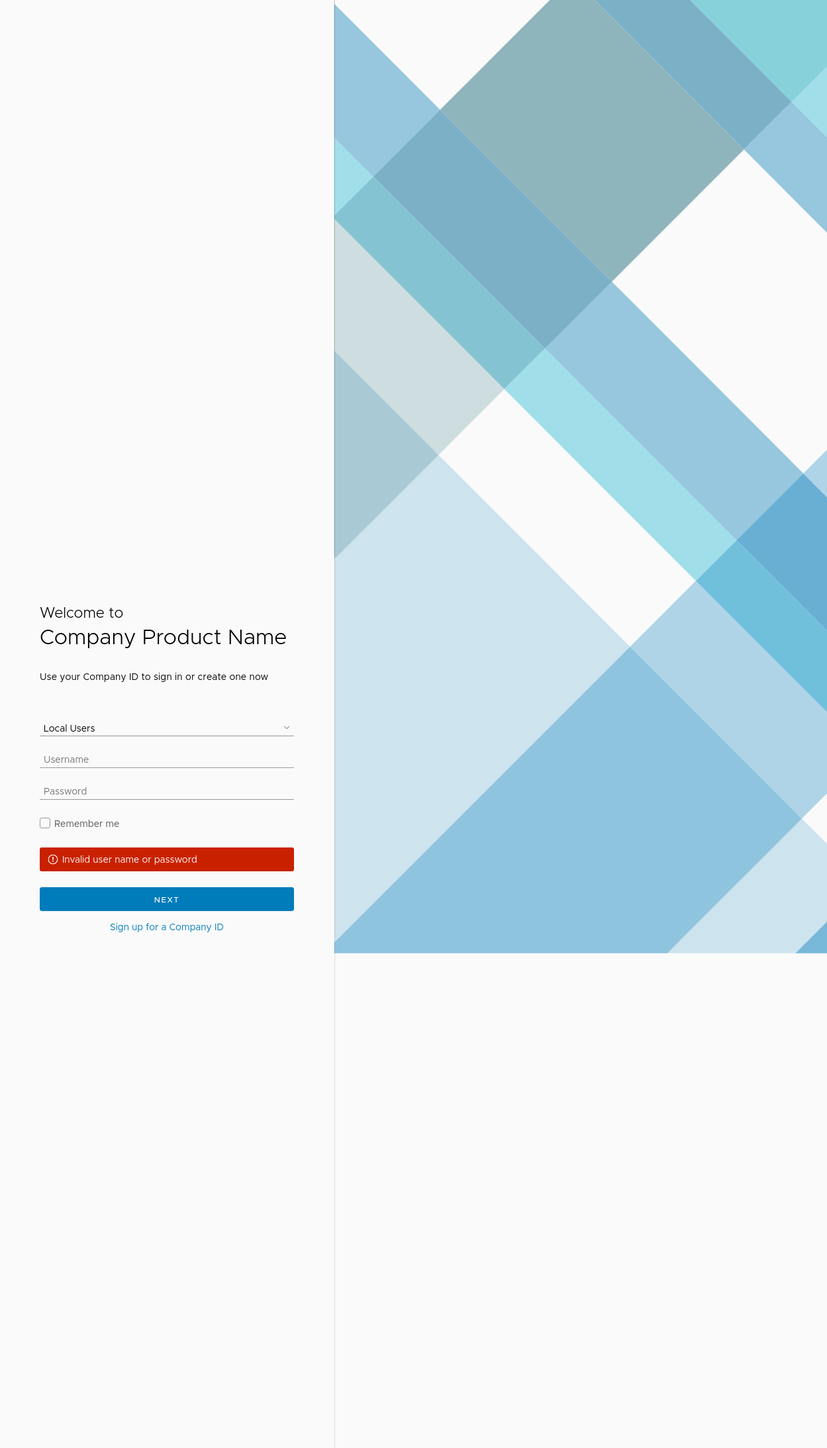
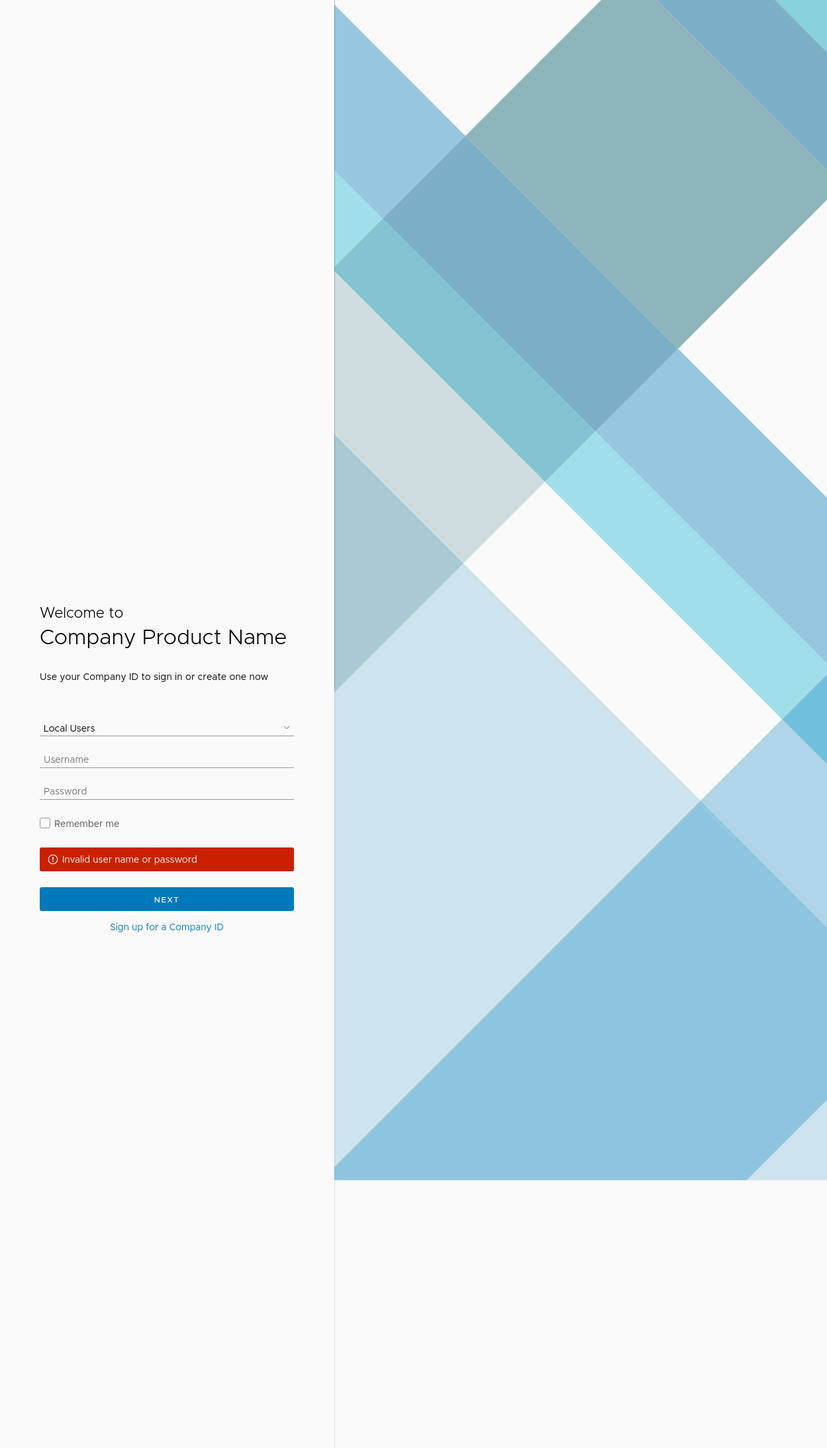
[UI] fix(login): Fixes login background svg (#2680)

Changed region(s): [[0.4059, 0.0, 1.0, 0.8395]]

diff --git a/src/clr-angular/layout/_variables.login.scss b/src/clr-angular/layout/_variables.login.scss
@@ -8,4 +8,4 @@
 $clr-login-background-color: $clr-global-app-background;
 $clr-login-width: 21rem !default;
 $clr-login-icon-size: $clr-icon-dimension-sm !default;
-$clr-login-background: '%3Csvg%20xmlns%3D%22http%3A%2F%2Fwww.w3.org%2F2000%2Fsvg%22%20viewBox%3D%220%200%20100%25%20100%25%22%20preserveAspectRatio%3D%22xMinYMin%20meet%22%3E%0A%20%20%20%20%3Cdesc%3ELogin%20Background%3C%2Fdesc%3E%0A%20%20%20%20%3Cg%20stroke%3D%22none%22%20stroke-width%3D%221%22%20fill%3D%22none%22%20fill-rule%3D%22evenodd%22%20transform%3D%22translate(0.000000%2C%20-4.000000)%22%3E%0A%20%20%20%20%20%20%20%20%3Cg%3E%0A%20%20%20%20%20%20%20%20%20%20%20%20%3Cg%3E%0A%20%20%20%20%20%20%20%20%20%20%20%20%20%20%20%20%3Crect%20fill%3D%22%23FAFAFA%22%20x%3D%220%22%20y%3D%224%22%20width%3D%222055.55%22%20height%3D%221440%22%3E%3C%2Frect%3E%0A%20%20%20%20%20%20%20%20%20%20%20%20%20%20%20%20%3Cpolygon%20fill%3D%22%23007CBB%22%20opacity%3D%220.4%22%20style%3D%22mix-blend-mode%3A%20multiply%3B%22%20points%3D%221108.43%201443.63%201109.08%201443.63%20443.44%20777.74%22%3E%3C%2Fpolygon%3E%0A%20%20%20%20%20%20%20%20%20%20%20%20%20%20%20%20%3Cpolygon%20fill%3D%22%2393D8CA%22%20opacity%3D%220.6%22%20style%3D%22mix-blend-mode%3A%20overlay%3B%22%20points%3D%220.79%20334.92%20443.44%20777.74%200.79%20334.49%22%3E%3C%2Fpolygon%3E%0A%20%20%20%20%20%20%20%20%20%20%20%20%20%20%20%20%3Cpolygon%20fill%3D%22%23A0DEEA%22%20points%3D%220.79%20211.88%200.79%20329.6%2059.62%20270.77%22%3E%3C%2Fpolygon%3E%0A%20%20%20%20%20%20%20%20%20%20%20%20%20%20%20%20%3Cpolygon%20fill%3D%22%2396C7DF%22%20points%3D%22160.65%20169.74%200.79%209.73%200.79%20211.88%2090.27%20301.46%2059.62%20270.77%22%3E%3C%2Fpolygon%3E%0A%20%20%20%20%20%20%20%20%20%20%20%20%20%20%20%20%3Cpolygon%20fill%3D%22%23CDE3EE%22%20points%3D%22503.77%201443.63%20697.47%201443.63%20803.74%201337.36%20706.93%201240.43%22%3E%3C%2Fpolygon%3E%0A%20%20%20%20%20%20%20%20%20%20%20%20%20%20%20%20%3Cpolygon%20fill%3D%22%23CDE3EE%22%20points%3D%22158.33%20691.15%200.79%20848.72%200.79%201427.43%20447.52%20980.7%22%3E%3C%2Fpolygon%3E%0A%20%20%20%20%20%20%20%20%20%20%20%20%20%20%20%20%3Cpolygon%20fill%3D%22%23CEDDE0%22%20points%3D%22257.71%20591.75%200.79%20334.49%200.79%20533.42%20158.33%20691.15%22%3E%3C%2Fpolygon%3E%0A%20%20%20%20%20%20%20%20%20%20%20%20%20%20%20%20%3Cpolygon%20fill%3D%22%23A9C9D5%22%20points%3D%220.79%20533.42%200.79%20848.72%20158.33%20691.15%22%3E%3C%2Fpolygon%3E%0A%20%20%20%20%20%20%20%20%20%20%20%20%20%20%20%20%3Cpolygon%20fill%3D%22%23AFD4E7%22%20points%3D%22806.46%201140.89%20546.94%20881.28%20447.52%20980.7%20706.93%201240.43%22%3E%3C%2Fpolygon%3E%0A%20%20%20%20%20%20%20%20%20%20%20%20%20%20%20%20%3Cpolygon%20fill%3D%22%238FC4DF%22%20points%3D%22447.52%20980.7%200.79%201427.43%200.79%201443.63%20503.77%201443.63%20706.93%201240.43%22%3E%3C%2Fpolygon%3E%0A%20%20%20%20%20%20%20%20%20%20%20%20%20%20%20%20%3Cpolygon%20fill%3D%22%2370C0DC%22%20points%3D%22608.23%20819.99%20546.94%20881.28%20806.46%201140.89%20867.64%201079.7%22%3E%3C%2Fpolygon%3E%0A%20%20%20%20%20%20%20%20%20%20%20%20%20%20%20%20%3Cpolygon%20fill%3D%22%2396C7DF%22%20points%3D%22420.05%20429.39%20319.01%20530.45%20608.23%20819.99%20709.3%20718.91%22%3E%3C%2Fpolygon%3E%0A%20%20%20%20%20%20%20%20%20%20%20%20%20%20%20%20%3Cpolygon%20fill%3D%22%2369AFD4%22%20points%3D%22709.3%20718.91%20608.23%20819.99%20867.64%201079.7%20968.74%20978.6%22%3E%3C%2Fpolygon%3E%0A%20%20%20%20%20%20%20%20%20%20%20%20%20%20%20%20%3Cpolygon%20fill%3D%22%238EB5BC%22%20points%3D%22619.59%20229.82%20393.42%203.12%20327.27%203.12%20160.65%20169.74%20420.05%20429.39%22%3E%3C%2Fpolygon%3E%0A%20%20%20%20%20%20%20%20%20%20%20%20%20%20%20%20%3Cpolygon%20fill%3D%22%238EB5BC%22%20points%3D%22319.01%20530.45%20319.01%20530.45%2090.27%20301.46%22%3E%3C%2Fpolygon%3E%0A%20%20%20%20%20%20%20%20%20%20%20%20%20%20%20%20%3Cpolygon%20fill%3D%22%237CB0C7%22%20points%3D%22160.65%20169.74%2059.62%20270.77%2090.27%20301.46%20319.01%20530.45%20420.05%20429.39%22%3E%3C%2Fpolygon%3E%0A%20%20%20%20%20%20%20%20%20%20%20%20%20%20%20%20%3Cpolygon%20fill%3D%22%2384C4D2%22%20points%3D%2259.62%20270.77%200.79%20329.6%200.79%20334.49%20257.71%20591.75%20319.01%20530.45%22%3E%3C%2Fpolygon%3E%0A%20%20%20%20%20%20%20%20%20%20%20%20%20%20%20%20%3Cpolygon%20fill%3D%22%237CB0C7%22%20points%3D%22537.55%203.12%20393.42%203.12%20619.59%20229.82%20691.74%20157.66%22%3E%3C%2Fpolygon%3E%0A%20%20%20%20%20%20%20%20%20%20%20%20%20%20%20%20%3Cpolygon%20fill%3D%22%2387D1DB%22%20points%3D%22846.25%203.12%20537.55%203.12%20691.74%20157.66%22%3E%3C%2Fpolygon%3E%0A%20%20%20%20%20%20%20%20%20%20%20%20%20%20%20%20%3Cpolygon%20fill%3D%22%23CDE3EE%22%20points%3D%22909.87%201443.63%20850.19%201383.87%20790.43%201443.63%22%3E%3C%2Fpolygon%3E%0A%20%20%20%20%20%20%20%20%20%20%20%20%20%20%20%20%3Cpolygon%20fill%3D%22%23A0DEEA%22%20points%3D%22319.01%20530.45%20257.71%20591.75%20443.44%20777.74%20546.94%20881.28%20608.23%20819.99%20867.64%201079.7%20867.64%201079.7%22%3E%3C%2Fpolygon%3E%0A%20%20%20%20%20%20%20%20%20%20%20%20%20%20%20%20%3Cpolygon%20fill%3D%22%23A0DEEA%22%20points%3D%22867.64%201079.7%20806.46%201140.89%20903.31%201237.78%20964.46%201176.63%22%3E%3C%2Fpolygon%3E%0A%20%20%20%20%20%20%20%20%20%20%20%20%20%20%20%20%3Cpolygon%20fill%3D%22%2396C7DF%22%20points%3D%221065.57%201075.52%20968.74%20978.6%20867.64%201079.7%20964.46%201176.63%22%3E%3C%2Fpolygon%3E%0A%20%20%20%20%20%20%20%20%20%20%20%20%20%20%20%20%3Cpolygon%20fill%3D%22%2396C7DF%22%20points%3D%22964.46%201176.63%20867.64%201079.7%20867.64%201079.7%20964.46%201176.63%22%3E%3C%2Fpolygon%3E%0A%20%20%20%20%20%20%20%20%20%20%20%20%20%20%20%20%3Cpolygon%20fill%3D%22%2396C7DF%22%20points%3D%221010.92%201223.13%201231.16%201443.63%201010.92%201223.13%22%3E%3C%2Fpolygon%3E%0A%20%20%20%20%20%20%20%20%20%20%20%20%20%20%20%20%3Cpolygon%20fill%3D%22%2396C7DF%22%20points%3D%221240.08%20707.22%201167.9%20779.4%201264.68%20876.4%201336.87%20804.22%201240.08%20707.21%22%3E%3C%2Fpolygon%3E%0A%20%20%20%20%20%20%20%20%20%20%20%20%20%20%20%20%3Cpolygon%20fill%3D%22%2396C7DF%22%20points%3D%22980.83%20447.39%20691.74%20157.66%20619.59%20229.82%20908.66%20519.56%20980.83%20447.39%22%3E%3C%2Fpolygon%3E%0A%20%20%20%20%20%20%20%20%20%20%20%20%20%20%20%20%3Cpolygon%20fill%3D%22%23AFD4E7%22%20points%3D%22709.3%20718.91%20968.74%20978.6%201167.91%20779.4%20908.66%20519.55%22%3E%3C%2Fpolygon%3E%0A%20%20%20%20%20%20%20%20%20%20%20%20%20%20%20%20%3Cpolygon%20fill%3D%22%2369AFD4%22%20points%3D%22980.83%20447.39%20908.66%20519.55%201167.91%20779.4%201240.08%20707.21%22%3E%3C%2Fpolygon%3E%0A%20%20%20%20%20%20%20%20%20%20%20%20%20%20%20%20%3Cpolygon%20fill%3D%22%23A0DEEA%22%20points%3D%221034.59%203.12%20846.25%203.12%20691.74%20157.66%20980.83%20447.39%201229.75%20198.47%22%3E%3C%2Fpolygon%3E%0A%20%20%20%20%20%20%20%20%20%20%20%20%20%20%20%20%3Cpolygon%20fill%3D%22%23A0DEEA%22%20points%3D%221240.08%20707.21%201336.87%20804.22%201586.01%20555.08%201489.14%20458.12%22%3E%3C%2Fpolygon%3E%0A%20%20%20%20%20%20%20%20%20%20%20%20%20%20%20%20%3Cpolygon%20fill%3D%22%2370C0DC%22%20points%3D%221229.75%20198.47%20980.83%20447.39%201240.08%20707.21%201489.14%20458.12%22%3E%3C%2Fpolygon%3E%0A%20%20%20%20%20%20%20%20%20%20%20%20%20%20%20%20%3Cpolygon%20fill%3D%22%23B7CED2%22%20points%3D%221292.22%201302.38%201433.32%201443.63%201830.61%201443.63%201491.18%201103.42%22%3E%3C%2Fpolygon%3E%0A%20%20%20%20%20%20%20%20%20%20%20%20%20%20%20%20%3Cpolygon%20fill%3D%22%23A0DEEA%22%20points%3D%221010.92%201223.13%20949.78%201284.27%201109.08%201443.63%201150.98%201443.63%201191.09%201403.51%22%3E%3C%2Fpolygon%3E%0A%20%20%20%20%20%20%20%20%20%20%20%20%20%20%20%20%3Cpolygon%20fill%3D%22%2375B8C5%22%20points%3D%221150.98%201443.63%201231.16%201443.63%201191.09%201403.51%22%3E%3C%2Fpolygon%3E%0A%20%20%20%20%20%20%20%20%20%20%20%20%20%20%20%20%3Cpolygon%20fill%3D%22%2396C7DF%22%20points%3D%221292.22%201302.38%201112.03%201122.02%201010.92%201223.13%201191.09%201403.51%22%3E%3C%2Fpolygon%3E%0A%20%20%20%20%20%20%20%20%20%20%20%20%20%20%20%20%3Cpolygon%20fill%3D%22%236EA4BC%22%20points%3D%221191.09%201403.51%201231.16%201443.63%201433.32%201443.63%201292.22%201302.38%22%3E%3C%2Fpolygon%3E%0A%20%20%20%20%20%20%20%20%20%20%20%20%20%20%20%20%3Cpolygon%20fill%3D%22%23007CBB%22%20opacity%3D%220.4%22%20style%3D%22mix-blend-mode%3A%20multiply%3B%22%20points%3D%221383.3%20850.75%201311.12%20922.94%201491.18%201103.42%201563.37%201031.23%22%3E%3C%2Fpolygon%3E%0A%20%20%20%20%20%20%20%20%20%20%20%20%20%20%20%20%3Cpolygon%20fill%3D%22%23B7CED2%22%20points%3D%221491.18%201103.42%201830.61%201443.63%201974.86%201443.63%201563.37%201031.23%22%3E%3C%2Fpolygon%3E%0A%20%20%20%20%20%20%20%20%20%20%20%20%20%20%20%20%3Cpolygon%20fill%3D%22%236EA4BC%22%20points%3D%221491.18%201103.42%201830.61%201443.63%201974.86%201443.63%201563.37%201031.23%22%3E%3C%2Fpolygon%3E%0A%20%20%20%20%20%20%20%20%20%20%20%20%20%20%20%20%3Cpolygon%20fill%3D%22%23A0DEEA%22%20points%3D%221812.65%20781.95%201632.46%20601.59%201383.3%20850.75%201563.37%201031.23%22%3E%3C%2Fpolygon%3E%0A%20%20%20%20%20%20%20%20%20%20%20%20%20%20%20%20%3Cpolygon%20fill%3D%22%23B7CED2%22%20points%3D%221563.37%201031.23%201974.86%201443.63%202054.45%201443.63%202054.45%201023.99%201812.65%20781.95%22%3E%3C%2Fpolygon%3E%0A%20%20%20%20%20%20%20%20%20%20%20%20%20%20%20%20%3Cpolygon%20fill%3D%22%2378CAD4%22%20points%3D%221563.37%201031.23%201974.86%201443.63%202054.45%201443.63%202054.45%201023.99%201812.65%20781.95%22%3E%3C%2Fpolygon%3E%0A%20%20%20%20%20%20%20%20%20%20%20%20%20%20%20%20%3Cpolygon%20fill%3D%22%2391C5E0%22%20points%3D%22803.74%201337.36%20850.19%201383.87%20949.78%201284.27%20903.31%201237.78%22%3E%3C%2Fpolygon%3E%0A%20%20%20%20%20%20%20%20%20%20%20%20%20%20%20%20%3Cpolygon%20fill%3D%22%2391C5E0%22%20points%3D%221065.57%201075.52%201112.03%201122.02%201311.12%20922.94%201264.69%20876.4%22%3E%3C%2Fpolygon%3E%0A%20%20%20%20%20%20%20%20%20%20%20%20%20%20%20%20%3Cpolygon%20fill%3D%22%2377B8D9%22%20points%3D%22697.47%201443.63%20790.43%201443.63%20850.19%201383.87%20803.74%201337.36%22%3E%3C%2Fpolygon%3E%0A%20%20%20%20%20%20%20%20%20%20%20%20%20%20%20%20%3Cpolygon%20fill%3D%22%23A0DEEA%22%20points%3D%22964.46%201176.63%20903.31%201237.78%20949.78%201284.27%201010.92%201223.13%22%3E%3C%2Fpolygon%3E%0A%20%20%20%20%20%20%20%20%20%20%20%20%20%20%20%20%3Cpolygon%20fill%3D%22%235DB5D6%22%20points%3D%22964.46%201176.63%20903.31%201237.78%20949.78%201284.27%201010.92%201223.13%22%3E%3C%2Fpolygon%3E%0A%20%20%20%20%20%20%20%20%20%20%20%20%20%20%20%20%3Crect%20fill%3D%22%2396C7DF%22%20transform%3D%22translate(1038.247297%2C%201149.275429)%20rotate(-44.970000)%20translate(-1038.247297%2C%20-1149.275429)%20%22%20x%3D%22966.752297%22%20y%3D%221116.41043%22%20width%3D%22142.99%22%20height%3D%2265.73%22%3E%3C%2Frect%3E%0A%20%20%20%20%20%20%20%20%20%20%20%20%20%20%20%20%3Crect%20fill%3D%22%2357A8D0%22%20transform%3D%22translate(1038.247297%2C%201149.275429)%20rotate(-44.970000)%20translate(-1038.247297%2C%20-1149.275429)%20%22%20x%3D%22966.752297%22%20y%3D%221116.41043%22%20width%3D%22142.99%22%20height%3D%2265.73%22%3E%3C%2Frect%3E%0A%20%20%20%20%20%20%20%20%20%20%20%20%20%20%20%20%3Cpolygon%20fill%3D%22%2396C7DF%22%20points%3D%221010.92%201223.13%201010.92%201223.13%20964.46%201176.63%20964.46%201176.63%22%3E%3C%2Fpolygon%3E%0A%20%20%20%20%20%20%20%20%20%20%20%20%20%20%20%20%3Cpolygon%20fill%3D%22%23000000%22%20opacity%3D%220.42%22%20points%3D%221010.92%201223.13%201010.92%201223.13%20964.46%201176.63%20964.46%201176.63%22%3E%3C%2Fpolygon%3E%0A%20%20%20%20%20%20%20%20%20%20%20%20%20%20%20%20%3Cpolygon%20fill%3D%22%23007CBB%22%20opacity%3D%220.4%22%20style%3D%22mix-blend-mode%3A%20multiply%3B%22%20points%3D%221336.87%20804.22%201264.69%20876.4%201311.12%20922.94%201383.3%20850.75%22%3E%3C%2Fpolygon%3E%0A%20%20%20%20%20%20%20%20%20%20%20%20%20%20%20%20%3Cpolygon%20fill%3D%22%2357A8D0%22%20points%3D%221336.87%20804.22%201264.69%20876.4%201311.12%20922.94%201383.3%20850.75%22%3E%3C%2Fpolygon%3E%0A%20%20%20%20%20%20%20%20%20%20%20%20%20%20%20%20%3Cpolygon%20fill%3D%22%2393D8CA%22%20opacity%3D%220.6%22%20style%3D%22mix-blend-mode%3A%20overlay%3B%22%20points%3D%221336.87%20804.22%201383.3%20850.75%201632.46%20601.59%201586.01%20555.08%22%3E%3C%2Fpolygon%3E%0A%20%20%20%20%20%20%20%20%20%20%20%20%20%20%20%20%3Cpolygon%20fill%3D%22%235DB5D6%22%20points%3D%221336.87%20804.22%201383.3%20850.75%201632.46%20601.59%201586.01%20555.08%22%3E%3C%2Fpolygon%3E%0A%20%20%20%20%20%20%20%20%20%20%20%20%20%20%20%20%3Cpolygon%20fill%3D%22%23AFD3E6%22%20points%3D%222056%200.12%201645.49%200.12%201648.49%203.12%201944.07%203.12%201796.22%20150.99%201893.12%20247.97%202054.45%2086.64%202054.45%20179.6%201939.58%20294.47%202056%20411%22%3E%3C%2Fpolygon%3E%0A%20%20%20%20%20%20%20%20%20%20%20%20%20%20%20%20%3Cpolygon%20fill%3D%22%237AB9D9%22%20points%3D%221648.49%203.12%201796.22%20150.99%201944.07%203.12%22%3E%3C%2Fpolygon%3E%0A%20%20%20%20%20%20%20%20%20%20%20%20%20%20%20%20%3Cpolygon%20fill%3D%22%2366AED4%22%20points%3D%222054.45%2086.64%201893.12%20247.97%201939.58%20294.47%202054.45%20179.6%22%3E%3C%2Fpolygon%3E%0A%20%20%20%20%20%20%20%20%20%20%20%20%20%20%20%20%3Cpolygon%20fill%3D%22%23B7CED2%22%20points%3D%221884.82%20709.78%202054.45%20879.57%202054.45%20540.15%22%3E%3C%2Fpolygon%3E%0A%20%20%20%20%20%20%20%20%20%20%20%20%20%20%20%20%3Cpolygon%20fill%3D%22%23AFD4E7%22%20points%3D%221489.14%20458.12%201489.14%20458.12%201371.13%20339.99%22%3E%3C%2Fpolygon%3E%0A%20%20%20%20%20%20%20%20%20%20%20%20%20%20%20%20%3Cpolygon%20fill%3D%22%23AFD4E7%22%20points%3D%221796.22%20150.99%201648.49%203.12%201425.1%203.12%201301.91%20126.31%201561.3%20385.95%22%3E%3C%2Fpolygon%3E%0A%20%20%20%20%20%20%20%20%20%20%20%20%20%20%20%20%3Crect%20fill%3D%22%2391C5E0%22%20transform%3D%22translate(1798.954066%2C%20388.798781)%20rotate(-44.970000)%20translate(-1798.954066%2C%20-388.798781)%20%22%20x%3D%221632.82407%22%20y%3D%22355.933781%22%20width%3D%22332.26%22%20height%3D%2265.73%22%3E%3C%2Frect%3E%0A%20%20%20%20%20%20%20%20%20%20%20%20%20%20%20%20%3Cpolygon%20fill%3D%22%2391C5E0%22%20points%3D%221586.01%20555.08%201632.46%20601.59%201632.46%20601.59%201586.01%20555.08%22%3E%3C%2Fpolygon%3E%0A%20%20%20%20%20%20%20%20%20%20%20%20%20%20%20%20%3Crect%20fill%3D%22%23B3EAEE%22%20transform%3D%22translate(1573.711577%2C%20470.620263)%20rotate(-45.000000)%20translate(-1573.711577%2C%20-470.620263)%20%22%20x%3D%221522.68158%22%20y%3D%22402.085263%22%20width%3D%22102.06%22%20height%3D%22137.07%22%3E%3C%2Frect%3E%0A%20%20%20%20%20%20%20%20%20%20%20%20%20%20%20%20%3Crect%20fill%3D%22%23B3EAEE%22%20transform%3D%22translate(1758.676758%2C%20655.767120)%20rotate(-44.970000)%20translate(-1758.676758%2C%20-655.767120)%20%22%20x%3D%221707.64676%22%20y%3D%22528.29212%22%20width%3D%22102.06%22%20height%3D%22254.95%22%3E%3C%2Frect%3E%0A%20%20%20%20%20%20%20%20%20%20%20%20%20%20%20%20%3Cpolygon%20fill%3D%22%23B3EAEE%22%20points%3D%221301.91%20126.31%201178.84%203.12%201034.59%203.12%201229.75%20198.47%22%3E%3C%2Fpolygon%3E%0A%20%20%20%20%20%20%20%20%20%20%20%20%20%20%20%20%3Cpolygon%20fill%3D%22%2383C0C8%22%20points%3D%221812.65%20781.95%202054.45%201023.99%202054.45%20879.57%201884.82%20709.78%22%3E%3C%2Fpolygon%3E%0A%20%20%20%20%20%20%20%20%20%20%20%20%20%20%20%20%3Crect%20fill%3D%22%237DC6DC%22%20transform%3D%22translate(1395.516901%2C%20292.206519)%20rotate(-45.000000)%20translate(-1395.516901%2C%20-292.206519)%20%22%20x%3D%221344.4919%22%20y%3D%22108.701519%22%20width%3D%22102.05%22%20height%3D%22367.01%22%3E%3C%2Frect%3E%0A%20%20%20%20%20%20%20%20%20%20%20%20%20%20%20%20%3Crect%20fill%3D%22%2368B8D5%22%20transform%3D%22translate(1645.313619%2C%20542.249760)%20rotate(-45.000000)%20translate(-1645.313619%2C%20-542.249760)%20%22%20x%3D%221594.28362%22%20y%3D%22509.38476%22%20width%3D%22102.06%22%20height%3D%2265.73%22%3E%3C%2Frect%3E%0A%20%20%20%20%20%20%20%20%20%20%20%20%3C%2Fg%3E%0A%20%20%20%20%20%20%20%20%20%20%20%20%3Cg%20transform%3D%22translate(0.000000%2C%203.000000)%22%20stroke%3D%22%23000000%22%20opacity%3D%220.15%22%3E%0A%20%20%20%20%20%20%20%20%20%20%20%20%20%20%20%20%3Cpath%20d%3D%22M0.95%2C0.12%20L0.95%2C840.12%22%20id%3D%22Shape%22%3E%3C%2Fpath%3E%0A%20%20%20%20%20%20%20%20%20%20%20%20%3C%2Fg%3E%0A%20%20%20%20%20%20%20%20%3C%2Fg%3E%0A%20%20%20%20%3C%2Fg%3E%0A%3C%2Fsvg%3E';
+$clr-login-background: '%3C%3Fxml%20version%3D%221.0%22%20encoding%3D%22utf-8%22%3F%3E%0D%0A%3C%21DOCTYPE%20svg%20PUBLIC%20%22-%2F%2FW3C%2F%2FDTD%20SVG%201.1%2F%2FEN%22%20%22http%3A%2F%2Fwww.w3.org%2FGraphics%2FSVG%2F1.1%2FDTD%2Fsvg11.dtd%22%3E%0D%0A%3Csvg%0D%0A%20%20%20%20%20version%3D%221.1%22%0D%0A%20%20%20%20%20id%3D%22no-aspect-ratio%22%0D%0A%20%20%20%20%20xmlns%3D%22http%3A%2F%2Fwww.w3.org%2F2000%2Fsvg%22%0D%0A%20%20%20%20%20xmlns%3Axlink%3D%22http%3A%2F%2Fwww.w3.org%2F1999%2Fxlink%22%0D%0A%20%20%20%20%20x%3D%220px%22%0D%0A%20%20%20%20%20y%3D%220px%22%0D%0A%20%20%20%20%20height%3D%222055.55px%22%0D%0A%20%20%20%20%20width%3D%221440px%22%0D%0A%20%20%20%20%20viewBox%3D%220%200%202055.55%201440%22%0D%0A%20%20%20%20%20preserveAspectRatio%3D%22xMinYMin%20slice%22%3E%0D%0A%20%20%20%20%20%20%20%20%20%3Cdesc%3ELogin%20Image%3C%2Fdesc%3E%0D%0A%20%20%20%20%20%20%20%20%20%20%20%20%20%3Cg%20stroke%3D%22none%22%20stroke-width%3D%221%22%20fill%3D%22none%22%20fill-rule%3D%22evenodd%22%20transform%3D%22translate%280.000000%2C%20-4.000000%29%22%3E%0D%0A%20%20%20%20%20%20%20%20%3Cg%3E%0D%0A%20%20%20%20%20%20%20%20%20%20%20%20%3Cg%3E%0D%0A%20%20%20%20%20%20%20%20%20%20%20%20%20%20%20%20%3Crect%20fill%3D%22%23FAFAFA%22%20x%3D%220%22%20y%3D%224%22%3E%3C%2Frect%3E%0D%0A%20%20%20%20%20%20%20%20%20%20%20%20%20%20%20%20%3Cpolygon%20fill%3D%22%23007CBB%22%20opacity%3D%220.4%22%20style%3D%22mix-blend-mode%3A%20multiply%3B%22%20points%3D%221108.43%201443.63%201109.08%201443.63%20443.44%20777.74%22%3E%3C%2Fpolygon%3E%0D%0A%20%20%20%20%20%20%20%20%20%20%20%20%20%20%20%20%3Cpolygon%20fill%3D%22%2393D8CA%22%20opacity%3D%220.6%22%20style%3D%22mix-blend-mode%3A%20overlay%3B%22%20points%3D%220.79%20334.92%20443.44%20777.74%200.79%20334.49%22%3E%3C%2Fpolygon%3E%0D%0A%20%20%20%20%20%20%20%20%20%20%20%20%20%20%20%20%3Cpolygon%20fill%3D%22%23A0DEEA%22%20points%3D%220.79%20211.88%200.79%20329.6%2059.62%20270.77%22%3E%3C%2Fpolygon%3E%0D%0A%20%20%20%20%20%20%20%20%20%20%20%20%20%20%20%20%3Cpolygon%20fill%3D%22%2396C7DF%22%20points%3D%22160.65%20169.74%200.79%209.73%200.79%20211.88%2090.27%20301.46%2059.62%20270.77%22%3E%3C%2Fpolygon%3E%0D%0A%20%20%20%20%20%20%20%20%20%20%20%20%20%20%20%20%3Cpolygon%20fill%3D%22%23CDE3EE%22%20points%3D%22503.77%201443.63%20697.47%201443.63%20803.74%201337.36%20706.93%201240.43%22%3E%3C%2Fpolygon%3E%0D%0A%20%20%20%20%20%20%20%20%20%20%20%20%20%20%20%20%3Cpolygon%20fill%3D%22%23CDE3EE%22%20points%3D%22158.33%20691.15%200.79%20848.72%200.79%201427.43%20447.52%20980.7%22%3E%3C%2Fpolygon%3E%0D%0A%20%20%20%20%20%20%20%20%20%20%20%20%20%20%20%20%3Cpolygon%20fill%3D%22%23CEDDE0%22%20points%3D%22257.71%20591.75%200.79%20334.49%200.79%20533.42%20158.33%20691.15%22%3E%3C%2Fpolygon%3E%0D%0A%20%20%20%20%20%20%20%20%20%20%20%20%20%20%20%20%3Cpolygon%20fill%3D%22%23A9C9D5%22%20points%3D%220.79%20533.42%200.79%20848.72%20158.33%20691.15%22%3E%3C%2Fpolygon%3E%0D%0A%20%20%20%20%20%20%20%20%20%20%20%20%20%20%20%20%3Cpolygon%20fill%3D%22%23AFD4E7%22%20points%3D%22806.46%201140.89%20546.94%20881.28%20447.52%20980.7%20706.93%201240.43%22%3E%3C%2Fpolygon%3E%0D%0A%20%20%20%20%20%20%20%20%20%20%20%20%20%20%20%20%3Cpolygon%20fill%3D%22%238FC4DF%22%20points%3D%22447.52%20980.7%200.79%201427.43%200.79%201443.63%20503.77%201443.63%20706.93%201240.43%22%3E%3C%2Fpolygon%3E%0D%0A%20%20%20%20%20%20%20%20%20%20%20%20%20%20%20%20%3Cpolygon%20fill%3D%22%2370C0DC%22%20points%3D%22608.23%20819.99%20546.94%20881.28%20806.46%201140.89%20867.64%201079.7%22%3E%3C%2Fpolygon%3E%0D%0A%20%20%20%20%20%20%20%20%20%20%20%20%20%20%20%20%3Cpolygon%20fill%3D%22%2396C7DF%22%20points%3D%22420.05%20429.39%20319.01%20530.45%20608.23%20819.99%20709.3%20718.91%22%3E%3C%2Fpolygon%3E%0D%0A%20%20%20%20%20%20%20%20%20%20%20%20%20%20%20%20%3Cpolygon%20fill%3D%22%2369AFD4%22%20points%3D%22709.3%20718.91%20608.23%20819.99%20867.64%201079.7%20968.74%20978.6%22%3E%3C%2Fpolygon%3E%0D%0A%20%20%20%20%20%20%20%20%20%20%20%20%20%20%20%20%3Cpolygon%20fill%3D%22%238EB5BC%22%20points%3D%22619.59%20229.82%20393.42%203.12%20327.27%203.12%20160.65%20169.74%20420.05%20429.39%22%3E%3C%2Fpolygon%3E%0D%0A%20%20%20%20%20%20%20%20%20%20%20%20%20%20%20%20%3Cpolygon%20fill%3D%22%238EB5BC%22%20points%3D%22319.01%20530.45%20319.01%20530.45%2090.27%20301.46%22%3E%3C%2Fpolygon%3E%0D%0A%20%20%20%20%20%20%20%20%20%20%20%20%20%20%20%20%3Cpolygon%20fill%3D%22%237CB0C7%22%20points%3D%22160.65%20169.74%2059.62%20270.77%2090.27%20301.46%20319.01%20530.45%20420.05%20429.39%22%3E%3C%2Fpolygon%3E%0D%0A%20%20%20%20%20%20%20%20%20%20%20%20%20%20%20%20%3Cpolygon%20fill%3D%22%2384C4D2%22%20points%3D%2259.62%20270.77%200.79%20329.6%200.79%20334.49%20257.71%20591.75%20319.01%20530.45%22%3E%3C%2Fpolygon%3E%0D%0A%20%20%20%20%20%20%20%20%20%20%20%20%20%20%20%20%3Cpolygon%20fill%3D%22%237CB0C7%22%20points%3D%22537.55%203.12%20393.42%203.12%20619.59%20229.82%20691.74%20157.66%22%3E%3C%2Fpolygon%3E%0D%0A%20%20%20%20%20%20%20%20%20%20%20%20%20%20%20%20%3Cpolygon%20fill%3D%22%2387D1DB%22%20points%3D%22846.25%203.12%20537.55%203.12%20691.74%20157.66%22%3E%3C%2Fpolygon%3E%0D%0A%20%20%20%20%20%20%20%20%20%20%20%20%20%20%20%20%3Cpolygon%20fill%3D%22%23CDE3EE%22%20points%3D%22909.87%201443.63%20850.19%201383.87%20790.43%201443.63%22%3E%3C%2Fpolygon%3E%0D%0A%20%20%20%20%20%20%20%20%20%20%20%20%20%20%20%20%3Cpolygon%20fill%3D%22%23A0DEEA%22%20points%3D%22319.01%20530.45%20257.71%20591.75%20443.44%20777.74%20546.94%20881.28%20608.23%20819.99%20867.64%201079.7%20867.64%201079.7%22%3E%3C%2Fpolygon%3E%0D%0A%20%20%20%20%20%20%20%20%20%20%20%20%20%20%20%20%3Cpolygon%20fill%3D%22%23A0DEEA%22%20points%3D%22867.64%201079.7%20806.46%201140.89%20903.31%201237.78%20964.46%201176.63%22%3E%3C%2Fpolygon%3E%0D%0A%20%20%20%20%20%20%20%20%20%20%20%20%20%20%20%20%3Cpolygon%20fill%3D%22%2396C7DF%22%20points%3D%221065.57%201075.52%20968.74%20978.6%20867.64%201079.7%20964.46%201176.63%22%3E%3C%2Fpolygon%3E%0D%0A%20%20%20%20%20%20%20%20%20%20%20%20%20%20%20%20%3Cpolygon%20fill%3D%22%2396C7DF%22%20points%3D%22964.46%201176.63%20867.64%201079.7%20867.64%201079.7%20964.46%201176.63%22%3E%3C%2Fpolygon%3E%0D%0A%20%20%20%20%20%20%20%20%20%20%20%20%20%20%20%20%3Cpolygon%20fill%3D%22%2396C7DF%22%20points%3D%221010.92%201223.13%201231.16%201443.63%201010.92%201223.13%22%3E%3C%2Fpolygon%3E%0D%0A%20%20%20%20%20%20%20%20%20%20%20%20%20%20%20%20%3Cpolygon%20fill%3D%22%2396C7DF%22%20points%3D%221240.08%20707.22%201167.9%20779.4%201264.68%20876.4%201336.87%20804.22%201240.08%20707.21%22%3E%3C%2Fpolygon%3E%0D%0A%20%20%20%20%20%20%20%20%20%20%20%20%20%20%20%20%3Cpolygon%20fill%3D%22%2396C7DF%22%20points%3D%22980.83%20447.39%20691.74%20157.66%20619.59%20229.82%20908.66%20519.56%20980.83%20447.39%22%3E%3C%2Fpolygon%3E%0D%0A%20%20%20%20%20%20%20%20%20%20%20%20%20%20%20%20%3Cpolygon%20fill%3D%22%23AFD4E7%22%20points%3D%22709.3%20718.91%20968.74%20978.6%201167.91%20779.4%20908.66%20519.55%22%3E%3C%2Fpolygon%3E%0D%0A%20%20%20%20%20%20%20%20%20%20%20%20%20%20%20%20%3Cpolygon%20fill%3D%22%2369AFD4%22%20points%3D%22980.83%20447.39%20908.66%20519.55%201167.91%20779.4%201240.08%20707.21%22%3E%3C%2Fpolygon%3E%0D%0A%20%20%20%20%20%20%20%20%20%20%20%20%20%20%20%20%3Cpolygon%20fill%3D%22%23A0DEEA%22%20points%3D%221034.59%203.12%20846.25%203.12%20691.74%20157.66%20980.83%20447.39%201229.75%20198.47%22%3E%3C%2Fpolygon%3E%0D%0A%20%20%20%20%20%20%20%20%20%20%20%20%20%20%20%20%3Cpolygon%20fill%3D%22%23A0DEEA%22%20points%3D%221240.08%20707.21%201336.87%20804.22%201586.01%20555.08%201489.14%20458.12%22%3E%3C%2Fpolygon%3E%0D%0A%20%20%20%20%20%20%20%20%20%20%20%20%20%20%20%20%3Cpolygon%20fill%3D%22%2370C0DC%22%20points%3D%221229.75%20198.47%20980.83%20447.39%201240.08%20707.21%201489.14%20458.12%22%3E%3C%2Fpolygon%3E%0D%0A%20%20%20%20%20%20%20%20%20%20%20%20%20%20%20%20%3Cpolygon%20fill%3D%22%23B7CED2%22%20points%3D%221292.22%201302.38%201433.32%201443.63%201830.61%201443.63%201491.18%201103.42%22%3E%3C%2Fpolygon%3E%0D%0A%20%20%20%20%20%20%20%20%20%20%20%20%20%20%20%20%3Cpolygon%20fill%3D%22%23A0DEEA%22%20points%3D%221010.92%201223.13%20949.78%201284.27%201109.08%201443.63%201150.98%201443.63%201191.09%201403.51%22%3E%3C%2Fpolygon%3E%0D%0A%20%20%20%20%20%20%20%20%20%20%20%20%20%20%20%20%3Cpolygon%20fill%3D%22%2375B8C5%22%20points%3D%221150.98%201443.63%201231.16%201443.63%201191.09%201403.51%22%3E%3C%2Fpolygon%3E%0D%0A%20%20%20%20%20%20%20%20%20%20%20%20%20%20%20%20%3Cpolygon%20fill%3D%22%2396C7DF%22%20points%3D%221292.22%201302.38%201112.03%201122.02%201010.92%201223.13%201191.09%201403.51%22%3E%3C%2Fpolygon%3E%0D%0A%20%20%20%20%20%20%20%20%20%20%20%20%20%20%20%20%3Cpolygon%20fill%3D%22%236EA4BC%22%20points%3D%221191.09%201403.51%201231.16%201443.63%201433.32%201443.63%201292.22%201302.38%22%3E%3C%2Fpolygon%3E%0D%0A%20%20%20%20%20%20%20%20%20%20%20%20%20%20%20%20%3Cpolygon%20fill%3D%22%23007CBB%22%20opacity%3D%220.4%22%20style%3D%22mix-blend-mode%3A%20multiply%3B%22%20points%3D%221383.3%20850.75%201311.12%20922.94%201491.18%201103.42%201563.37%201031.23%22%3E%3C%2Fpolygon%3E%0D%0A%20%20%20%20%20%20%20%20%20%20%20%20%20%20%20%20%3Cpolygon%20fill%3D%22%23B7CED2%22%20points%3D%221491.18%201103.42%201830.61%201443.63%201974.86%201443.63%201563.37%201031.23%22%3E%3C%2Fpolygon%3E%0D%0A%20%20%20%20%20%20%20%20%20%20%20%20%20%20%20%20%3Cpolygon%20fill%3D%22%236EA4BC%22%20points%3D%221491.18%201103.42%201830.61%201443.63%201974.86%201443.63%201563.37%201031.23%22%3E%3C%2Fpolygon%3E%0D%0A%20%20%20%20%20%20%20%20%20%20%20%20%20%20%20%20%3Cpolygon%20fill%3D%22%23A0DEEA%22%20points%3D%221812.65%20781.95%201632.46%20601.59%201383.3%20850.75%201563.37%201031.23%22%3E%3C%2Fpolygon%3E%0D%0A%20%20%20%20%20%20%20%20%20%20%20%20%20%20%20%20%3Cpolygon%20fill%3D%22%23B7CED2%22%20points%3D%221563.37%201031.23%201974.86%201443.63%202054.45%201443.63%202054.45%201023.99%201812.65%20781.95%22%3E%3C%2Fpolygon%3E%0D%0A%20%20%20%20%20%20%20%20%20%20%20%20%20%20%20%20%3Cpolygon%20fill%3D%22%2378CAD4%22%20points%3D%221563.37%201031.23%201974.86%201443.63%202054.45%201443.63%202054.45%201023.99%201812.65%20781.95%22%3E%3C%2Fpolygon%3E%0D%0A%20%20%20%20%20%20%20%20%20%20%20%20%20%20%20%20%3Cpolygon%20fill%3D%22%2391C5E0%22%20points%3D%22803.74%201337.36%20850.19%201383.87%20949.78%201284.27%20903.31%201237.78%22%3E%3C%2Fpolygon%3E%0D%0A%20%20%20%20%20%20%20%20%20%20%20%20%20%20%20%20%3Cpolygon%20fill%3D%22%2391C5E0%22%20points%3D%221065.57%201075.52%201112.03%201122.02%201311.12%20922.94%201264.69%20876.4%22%3E%3C%2Fpolygon%3E%0D%0A%20%20%20%20%20%20%20%20%20%20%20%20%20%20%20%20%3Cpolygon%20fill%3D%22%2377B8D9%22%20points%3D%22697.47%201443.63%20790.43%201443.63%20850.19%201383.87%20803.74%201337.36%22%3E%3C%2Fpolygon%3E%0D%0A%20%20%20%20%20%20%20%20%20%20%20%20%20%20%20%20%3Cpolygon%20fill%3D%22%23A0DEEA%22%20points%3D%22964.46%201176.63%20903.31%201237.78%20949.78%201284.27%201010.92%201223.13%22%3E%3C%2Fpolygon%3E%0D%0A%20%20%20%20%20%20%20%20%20%20%20%20%20%20%20%20%3Cpolygon%20fill%3D%22%235DB5D6%22%20points%3D%22964.46%201176.63%20903.31%201237.78%20949.78%201284.27%201010.92%201223.13%22%3E%3C%2Fpolygon%3E%0D%0A%20%20%20%20%20%20%20%20%20%20%20%20%20%20%20%20%3Crect%20fill%3D%22%2396C7DF%22%20transform%3D%22translate%281038.247297%2C%201149.275429%29%20rotate%28-44.970000%29%20translate%28-1038.247297%2C%20-1149.275429%29%20%22%20x%3D%22966.752297%22%20y%3D%221116.41043%22%20width%3D%22142.99%22%20height%3D%2265.73%22%3E%3C%2Frect%3E%0D%0A%20%20%20%20%20%20%20%20%20%20%20%20%20%20%20%20%3Crect%20fill%3D%22%2357A8D0%22%20transform%3D%22translate%281038.247297%2C%201149.275429%29%20rotate%28-44.970000%29%20translate%28-1038.247297%2C%20-1149.275429%29%20%22%20x%3D%22966.752297%22%20y%3D%221116.41043%22%20width%3D%22142.99%22%20height%3D%2265.73%22%3E%3C%2Frect%3E%0D%0A%20%20%20%20%20%20%20%20%20%20%20%20%20%20%20%20%3Cpolygon%20fill%3D%22%2396C7DF%22%20points%3D%221010.92%201223.13%201010.92%201223.13%20964.46%201176.63%20964.46%201176.63%22%3E%3C%2Fpolygon%3E%0D%0A%20%20%20%20%20%20%20%20%20%20%20%20%20%20%20%20%3Cpolygon%20fill%3D%22%23000000%22%20opacity%3D%220.42%22%20points%3D%221010.92%201223.13%201010.92%201223.13%20964.46%201176.63%20964.46%201176.63%22%3E%3C%2Fpolygon%3E%0D%0A%20%20%20%20%20%20%20%20%20%20%20%20%20%20%20%20%3Cpolygon%20fill%3D%22%23007CBB%22%20opacity%3D%220.4%22%20style%3D%22mix-blend-mode%3A%20multiply%3B%22%20points%3D%221336.87%20804.22%201264.69%20876.4%201311.12%20922.94%201383.3%20850.75%22%3E%3C%2Fpolygon%3E%0D%0A%20%20%20%20%20%20%20%20%20%20%20%20%20%20%20%20%3Cpolygon%20fill%3D%22%2357A8D0%22%20points%3D%221336.87%20804.22%201264.69%20876.4%201311.12%20922.94%201383.3%20850.75%22%3E%3C%2Fpolygon%3E%0D%0A%20%20%20%20%20%20%20%20%20%20%20%20%20%20%20%20%3Cpolygon%20fill%3D%22%2393D8CA%22%20opacity%3D%220.6%22%20style%3D%22mix-blend-mode%3A%20overlay%3B%22%20points%3D%221336.87%20804.22%201383.3%20850.75%201632.46%20601.59%201586.01%20555.08%22%3E%3C%2Fpolygon%3E%0D%0A%20%20%20%20%20%20%20%20%20%20%20%20%20%20%20%20%3Cpolygon%20fill%3D%22%235DB5D6%22%20points%3D%221336.87%20804.22%201383.3%20850.75%201632.46%20601.59%201586.01%20555.08%22%3E%3C%2Fpolygon%3E%0D%0A%20%20%20%20%20%20%20%20%20%20%20%20%20%20%20%20%3Cpolygon%20fill%3D%22%23AFD3E6%22%20points%3D%222056%200.12%201645.49%200.12%201648.49%203.12%201944.07%203.12%201796.22%20150.99%201893.12%20247.97%202054.45%2086.64%202054.45%20179.6%201939.58%20294.47%202056%20411%22%3E%3C%2Fpolygon%3E%0D%0A%20%20%20%20%20%20%20%20%20%20%20%20%20%20%20%20%3Cpolygon%20fill%3D%22%237AB9D9%22%20points%3D%221648.49%203.12%201796.22%20150.99%201944.07%203.12%22%3E%3C%2Fpolygon%3E%0D%0A%20%20%20%20%20%20%20%20%20%20%20%20%20%20%20%20%3Cpolygon%20fill%3D%22%2366AED4%22%20points%3D%222054.45%2086.64%201893.12%20247.97%201939.58%20294.47%202054.45%20179.6%22%3E%3C%2Fpolygon%3E%0D%0A%20%20%20%20%20%20%20%20%20%20%20%20%20%20%20%20%3Cpolygon%20fill%3D%22%23B7CED2%22%20points%3D%221884.82%20709.78%202054.45%20879.57%202054.45%20540.15%22%3E%3C%2Fpolygon%3E%0D%0A%20%20%20%20%20%20%20%20%20%20%20%20%20%20%20%20%3Cpolygon%20fill%3D%22%23AFD4E7%22%20points%3D%221489.14%20458.12%201489.14%20458.12%201371.13%20339.99%22%3E%3C%2Fpolygon%3E%0D%0A%20%20%20%20%20%20%20%20%20%20%20%20%20%20%20%20%3Cpolygon%20fill%3D%22%23AFD4E7%22%20points%3D%221796.22%20150.99%201648.49%203.12%201425.1%203.12%201301.91%20126.31%201561.3%20385.95%22%3E%3C%2Fpolygon%3E%0D%0A%20%20%20%20%20%20%20%20%20%20%20%20%20%20%20%20%3Crect%20fill%3D%22%2391C5E0%22%20transform%3D%22translate%281798.954066%2C%20388.798781%29%20rotate%28-44.970000%29%20translate%28-1798.954066%2C%20-388.798781%29%20%22%20x%3D%221632.82407%22%20y%3D%22355.933781%22%20width%3D%22332.26%22%20height%3D%2265.73%22%3E%3C%2Frect%3E%0D%0A%20%20%20%20%20%20%20%20%20%20%20%20%20%20%20%20%3Cpolygon%20fill%3D%22%2391C5E0%22%20points%3D%221586.01%20555.08%201632.46%20601.59%201632.46%20601.59%201586.01%20555.08%22%3E%3C%2Fpolygon%3E%0D%0A%20%20%20%20%20%20%20%20%20%20%20%20%20%20%20%20%3Crect%20fill%3D%22%23B3EAEE%22%20transform%3D%22translate%281573.711577%2C%20470.620263%29%20rotate%28-45.000000%29%20translate%28-1573.711577%2C%20-470.620263%29%20%22%20x%3D%221522.68158%22%20y%3D%22402.085263%22%20width%3D%22102.06%22%20height%3D%22137.07%22%3E%3C%2Frect%3E%0D%0A%20%20%20%20%20%20%20%20%20%20%20%20%20%20%20%20%3Crect%20fill%3D%22%23B3EAEE%22%20transform%3D%22translate%281758.676758%2C%20655.767120%29%20rotate%28-44.970000%29%20translate%28-1758.676758%2C%20-655.767120%29%20%22%20x%3D%221707.64676%22%20y%3D%22528.29212%22%20width%3D%22102.06%22%20height%3D%22254.95%22%3E%3C%2Frect%3E%0D%0A%20%20%20%20%20%20%20%20%20%20%20%20%20%20%20%20%3Cpolygon%20fill%3D%22%23B3EAEE%22%20points%3D%221301.91%20126.31%201178.84%203.12%201034.59%203.12%201229.75%20198.47%22%3E%3C%2Fpolygon%3E%0D%0A%20%20%20%20%20%20%20%20%20%20%20%20%20%20%20%20%3Cpolygon%20fill%3D%22%2383C0C8%22%20points%3D%221812.65%20781.95%202054.45%201023.99%202054.45%20879.57%201884.82%20709.78%22%3E%3C%2Fpolygon%3E%0D%0A%20%20%20%20%20%20%20%20%20%20%20%20%20%20%20%20%3Crect%20fill%3D%22%237DC6DC%22%20transform%3D%22translate%281395.516901%2C%20292.206519%29%20rotate%28-45.000000%29%20translate%28-1395.516901%2C%20-292.206519%29%20%22%20x%3D%221344.4919%22%20y%3D%22108.701519%22%20width%3D%22102.05%22%20height%3D%22367.01%22%3E%3C%2Frect%3E%0D%0A%20%20%20%20%20%20%20%20%20%20%20%20%20%20%20%20%3Crect%20fill%3D%22%2368B8D5%22%20transform%3D%22translate%281645.313619%2C%20542.249760%29%20rotate%28-45.000000%29%20translate%28-1645.313619%2C%20-542.249760%29%20%22%20x%3D%221594.28362%22%20y%3D%22509.38476%22%20width%3D%22102.06%22%20height%3D%2265.73%22%3E%3C%2Frect%3E%0D%0A%20%20%20%20%20%20%20%20%20%20%20%20%3C%2Fg%3E%0D%0A%20%20%20%20%20%20%20%20%20%20%20%20%3Cg%20transform%3D%22translate%280.000000%2C%203.000000%29%22%20stroke%3D%22%23000000%22%20opacity%3D%220.15%22%3E%0D%0A%20%20%20%20%20%20%20%20%20%20%20%20%20%20%20%20%3Cpath%20d%3D%22M0.95%2C0.12%20L0.95%2C840.12%22%20id%3D%22Shape%22%3E%3C%2Fpath%3E%0D%0A%20%20%20%20%20%20%20%20%20%20%20%20%3C%2Fg%3E%0D%0A%20%20%20%20%20%20%20%20%3C%2Fg%3E%0D%0A%20%20%20%20%3C%2Fg%3E%0D%0A%3C%2Fsvg%3E';

diff --git a/src/clr-angular/layout/_login.clarity.scss b/src/clr-angular/layout/_login.clarity.scss
@@ -5,8 +5,9 @@
 @include exports('login.clarity') {
   .login-wrapper {
     display: flex;
+    height: 100%;
     background: generateLoginBackground();
-    background-size: cover;
+    background-size: 100%;
     background-position: $clr-login-width 0;
     background-repeat: no-repeat;
 
